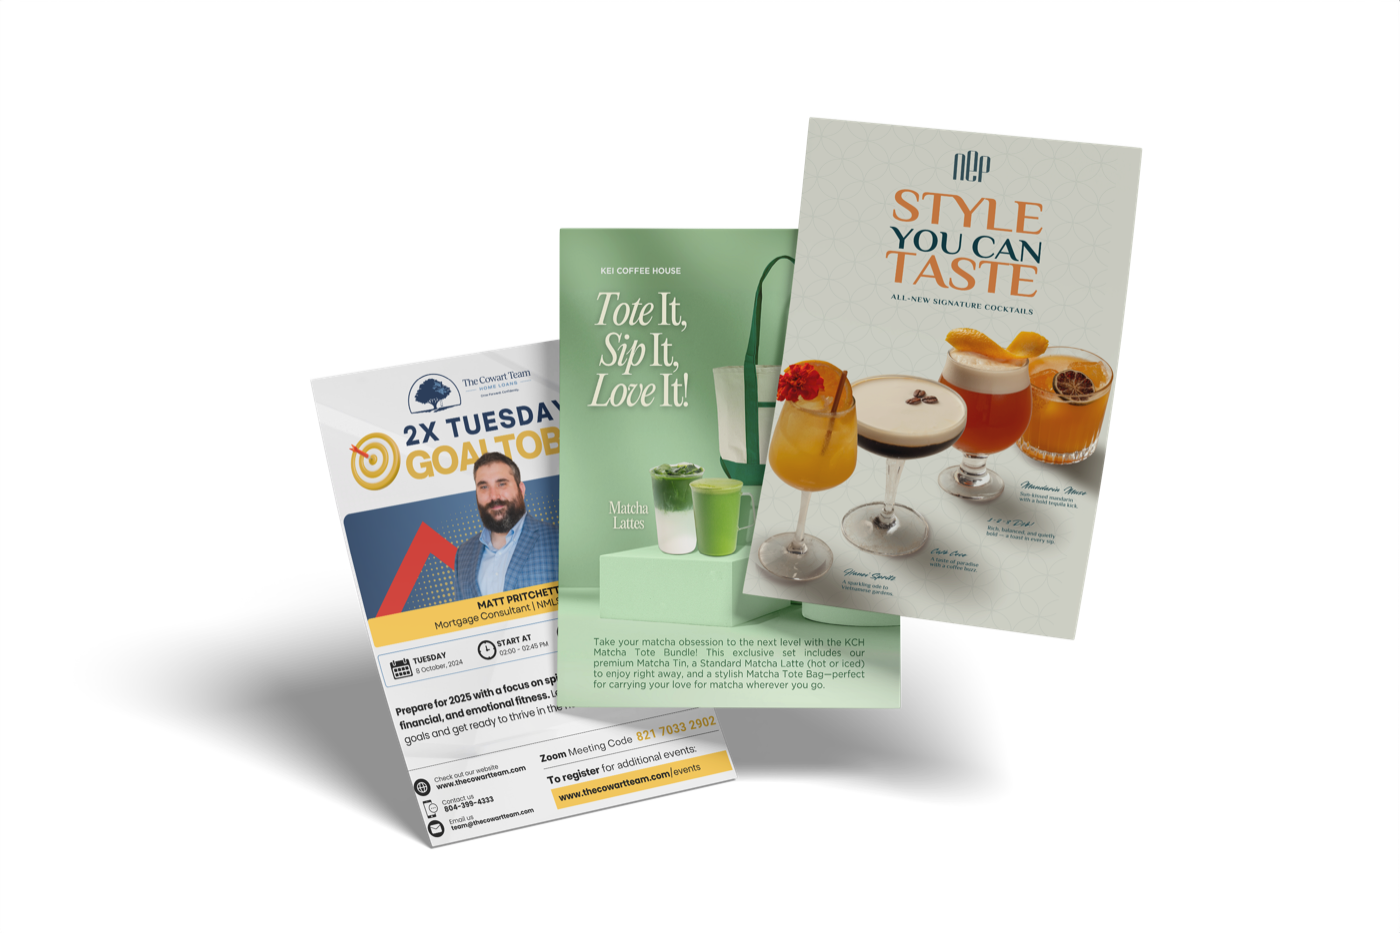
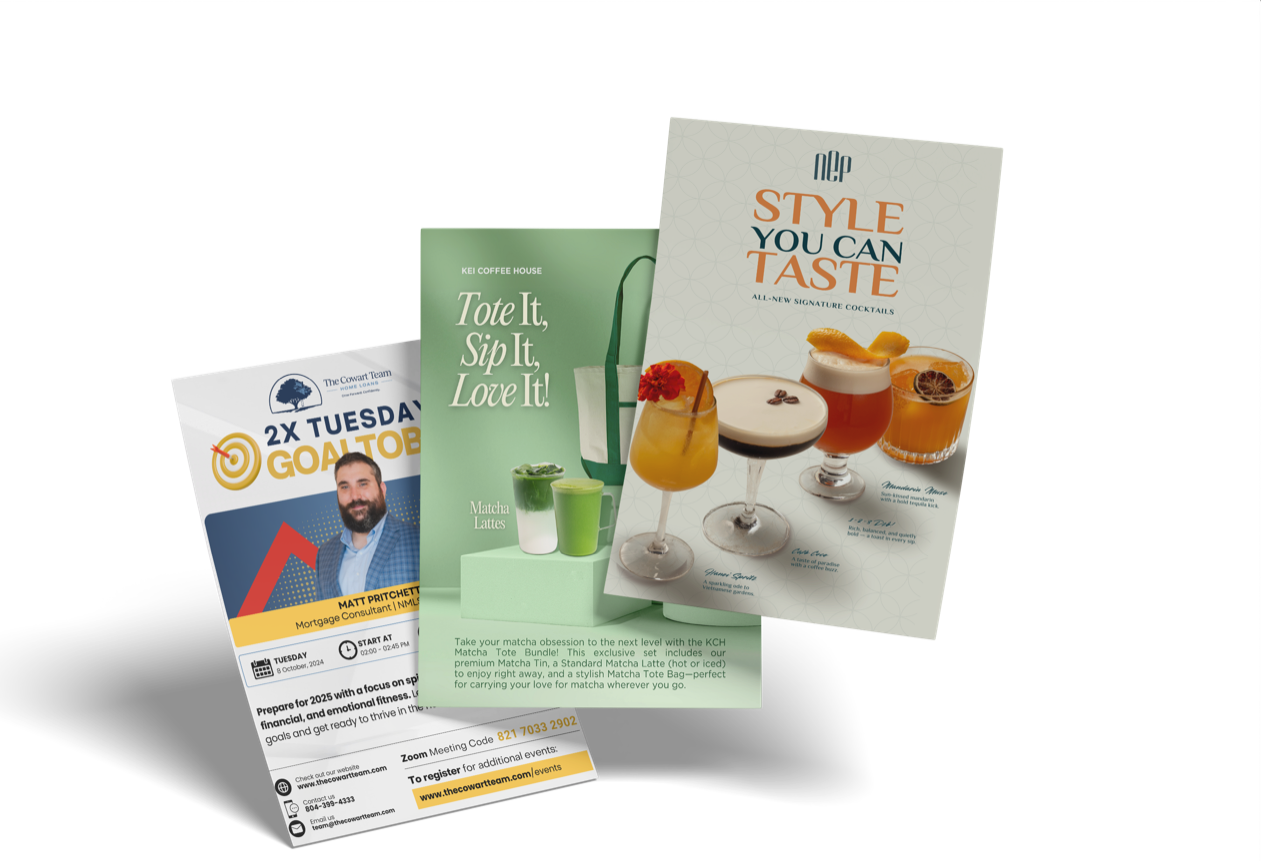
Render the menu and flyer mockups larger
Both sat too small. Raising the height cap alone did almost nothing --
the images are constrained by their column width, not their height, so
the cap was never the binding limit.

Three changes that actually move it:
- widen the row container to max-w-7xl for mockup sections
- give the image column flex-[1.55] and drop its max-w-2xl cap
- trim ~150px of dead transparent canvas from the left of the flyer
  export, which was shrinking the artwork inside its box (2.5MB -> 605KB
  total after the earlier downscale)

Each mockup now renders around 550px wide, up from 395 and 410, with the
copy still comfortable rather than squeezed into a narrow column.

diff --git a/src/pages/portfolio/category/page.tsx b/src/pages/portfolio/category/page.tsx
@@ -108,6 +108,8 @@ const GraphicDesignLayout = ({ category }) => {
       // sits on the section without needing a matching backing plate.
       image: '/images/menus-vox-flyers.png',
       wideImage: true,
+      imageMaxHeight: '700px',
+      imageGrow: true,
       // Segmented rather than a single string so the emphasis can be marked up
       // without dangerouslySetInnerHTML.
       richBody: [
@@ -139,6 +141,11 @@ const GraphicDesignLayout = ({ category }) => {
       // background so it sits on the page without a backing plate.
       image: '/images/flyers-mockup.png',
       wideImage: true,
+      // Runs larger than the menus mockup: three sheets share one width, so
+      // each reads smaller at a matched size. The column is the binding
+      // constraint here, not the height cap, so widen the column too.
+      imageMaxHeight: '760px',
+      imageGrow: true,
       imageLeft: false,
     },
   ];
@@ -151,8 +158,8 @@ const GraphicDesignLayout = ({ category }) => {
           className="relative py-16 sm:py-20 px-4 sm:px-6"
           style={{ background: sec.bg }}
         >
-          <div className="max-w-6xl mx-auto">
-            <div className={`flex flex-col ${sec.imageLeft ? 'lg:flex-row-reverse' : 'lg:flex-row'} gap-8 md:gap-12 lg:gap-20 items-center`}>
+          <div className={`mx-auto ${sec.wideImage ? 'max-w-7xl' : 'max-w-6xl'}`}>
+            <div className={`flex flex-col ${sec.imageLeft ? 'lg:flex-row-reverse' : 'lg:flex-row'} gap-8 md:gap-12 lg:gap-16 items-center`}>
               {/* Text */}
               <div className="flex-1 max-w-xl">
                 <span
@@ -200,12 +207,12 @@ const GraphicDesignLayout = ({ category }) => {
               </div>
               {/* Image — a single flat asset; the old site's menu artwork has
                   the fan, angle and shadow baked into the export itself. */}
-              <div className="flex-1 w-full flex items-center justify-center">
+              <div className={`w-full flex items-center justify-center ${sec.imageGrow ? 'lg:flex-[1.55]' : 'flex-1'}`}>
                 <img
                   src={sec.image}
                   alt={sec.title}
-                  className="w-full object-contain max-w-2xl"
-                  style={{ maxHeight: sec.wideImage ? '540px' : '680px' }}
+                  className={`w-full object-contain ${sec.imageGrow ? 'max-w-none' : 'max-w-2xl'}`}
+                  style={{ maxHeight: sec.imageMaxHeight ?? (sec.wideImage ? '540px' : '680px') }}
                 />
               </div>
             </div>
